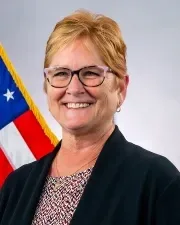
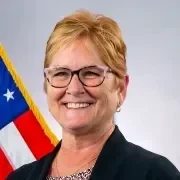
Fix Dona Dmitrovic's headshot crop and add her bio
The presenter card crops photos to a centered 140px square, which cut
the top of her head off her 180x225 portrait — the asset is now a
top-anchored square so the card shows her whole head. Bio from
Jennifer's 8-22 notes, applied to the presenters row and kept in sync
in the podcast seed script.

diff --git a/scripts/load-podcasts.js b/scripts/load-podcasts.js
@@ -67,7 +67,20 @@ const GUESTS = {
     name: 'Dona Dmitrovic',
     credentials: null,
     title: "Acting Director, Office of Recovery, SAMHSA",
-    bio: null,
+    // Bio supplied by Jennifer 8-22; keep in sync with the presenters row.
+    bio: 'Dona Dmitrovic is currently serving as the Acting Director of the ' +
+      'Office of Recovery. She is an accomplished behavioral health leader ' +
+      'with more than 39 years of experience in the substance use prevention, ' +
+      'treatment, and recovery field. Prior to her current role, Ms. ' +
+      'Dmitrovic served as Senior Advisor for Recovery, where she advanced ' +
+      'recovery initiatives across the agency. She also served as Director ' +
+      'of the Center for Substance Abuse Prevention (CSAP), providing ' +
+      'executive leadership for federal efforts to strengthen the nation\'s ' +
+      'behavioral health through evidence-based prevention strategies. ' +
+      'Throughout her career, Ms. Dmitrovic has played a key role in ' +
+      'developing and implementing programs that support individuals with ' +
+      'substance use and mental health conditions and advance ' +
+      'recovery-centered systems of care.',
     photo_url: '/images/presenters/dona-dmitrovic.webp',
     org_name: "SAMHSA Office of Recovery",
     org_logo_url: null,
